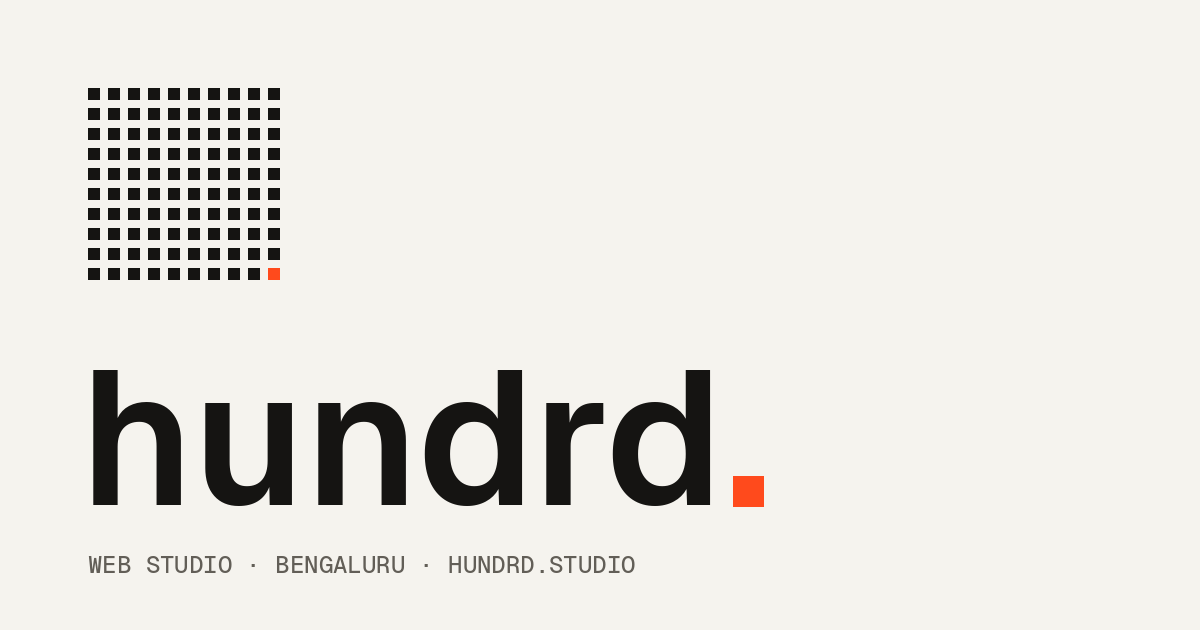
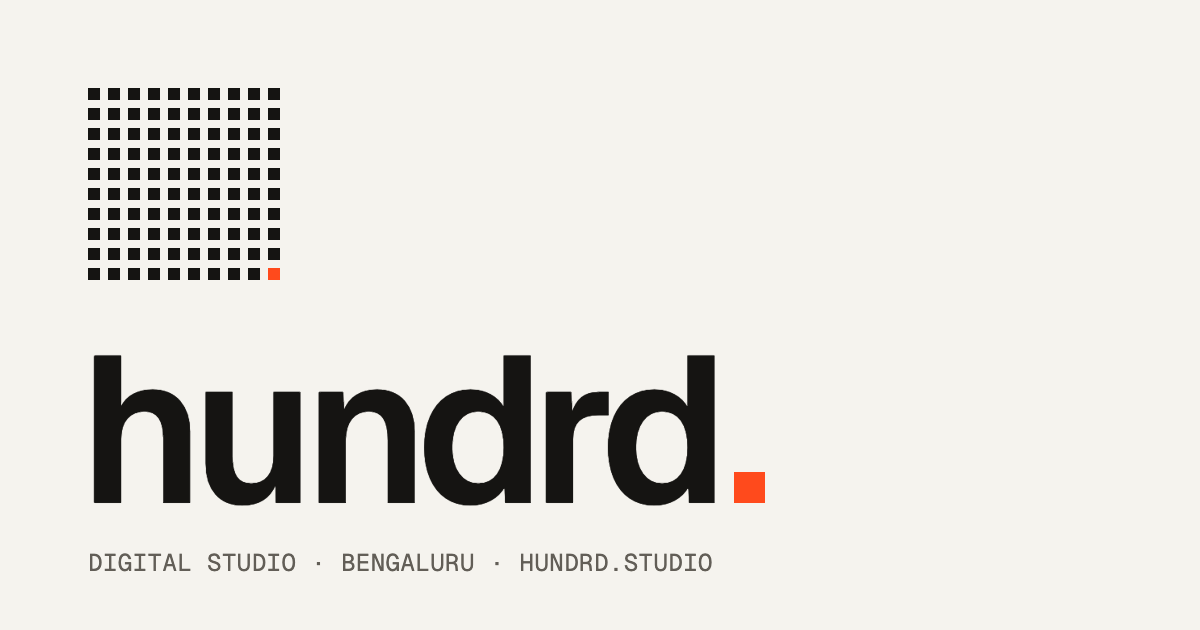
Update site branding and enhance enquiry form functionality

Changed region(s): [[0.0617, 0.5429, 0.6475, 0.8143], [0.0617, 0.8746, 0.6167, 0.9048]]

diff --git a/index.html b/index.html
@@ -3,14 +3,14 @@
 <head>
 <meta charset="utf-8">
 <meta name="viewport" content="width=device-width, initial-scale=1">
-<title>hundrd — web studio, Bengaluru</title>
-<meta name="description" content="hundrd is a web studio in Bengaluru building fast, secure websites for businesses that operate at scale. Designed, built and hosted by one studio.">
+<title>hundrd — digital studio, Bengaluru</title>
+<meta name="description" content="hundrd is a digital studio in Bengaluru building fast, secure websites and AI &amp; data tools for businesses that operate at scale.">
 <meta name="theme-color" content="#F5F3EE">
 <link rel="canonical" href="https://hundrd.studio/">
 <meta property="og:type" content="website">
 <meta property="og:url" content="https://hundrd.studio/">
-<meta property="og:title" content="hundrd — web studio, Bengaluru">
-<meta property="og:description" content="Fast, secure websites for businesses that operate at scale, down to the hundredth detail.">
+<meta property="og:title" content="hundrd — digital studio, Bengaluru">
+<meta property="og:description" content="Fast, secure websites and AI &amp; data tools, down to the hundredth detail.">
 <meta property="og:image" content="https://hundrd.studio/assets/og.png">
 <meta name="twitter:card" content="summary_large_image">
 <link rel="icon" href="favicon.svg" type="image/svg+xml">
@@ -168,6 +168,16 @@ html.scan-up::view-transition-new(root){animation:hdScanUp .9s cubic-bezier(.65,
 .hd-field:hover{border-color:#B9B4AA}
 .hd-field:focus{border-color:var(--ink)}
 .hd-field::placeholder{color:#8A857C}
+/* purpose picker: checkboxes styled as toggle chips */
+.hd-chips{display:flex;flex-wrap:wrap;gap:8px}
+.hd-pick{position:relative;display:inline-flex}
+.hd-pick input{position:absolute;inset:0;opacity:0;margin:0;cursor:pointer}
+.hd-pick span{display:inline-flex;align-items:center;gap:8px;height:36px;padding:0 12px;border:1px solid var(--line);background:var(--surface-raised);font-size:14px;color:var(--ink);transition:border-color .3s var(--ease),background-color .3s var(--ease),color .3s var(--ease)}
+.hd-pick span::before{content:"";width:8px;height:8px;border:1px solid var(--ink-muted);transition:background-color .3s var(--ease),border-color .3s var(--ease)}
+.hd-pick:hover span{border-color:#B9B4AA}
+.hd-pick input:checked+span{background:var(--ink);border-color:var(--ink);color:var(--surface)}
+.hd-pick input:checked+span::before{background:var(--signal);border-color:var(--signal)}
+.hd-pick input:focus-visible+span{outline:2px solid var(--signal);outline-offset:2px}
 [hidden]{display:none!important}
 .hd-ok{animation:hdUp .7s var(--ease) both}
 
@@ -210,9 +220,9 @@ html.scan-up::view-transition-new(root){animation:hdScanUp .9s cubic-bezier(.65,
         <nav id="wheel" class="hd-wheel" aria-label="Sections"></nav>
       </div>
       <p class="hd-in" style="margin: 4px 0 0; animation-delay: 1.4s; font-family: var(--font-mono); font-size: 11px; line-height: 16px; letter-spacing: 0.08em; text-transform: uppercase; color: var(--ink-muted);">Drag to spin · Click to explore</p>
-      <p class="hd-in" style="margin: 36px 0 0; animation-delay: 0.2s; font-family: var(--font-mono); font-size: 11px; line-height: 16px; font-weight: 500; letter-spacing: 0.08em; text-transform: uppercase; color: var(--ink-muted);">Web studio · Bengaluru · 100% or nothing</p>
+      <p class="hd-in" style="margin: 36px 0 0; animation-delay: 0.2s; font-family: var(--font-mono); font-size: 11px; line-height: 16px; font-weight: 500; letter-spacing: 0.08em; text-transform: uppercase; color: var(--ink-muted);">Digital studio · Bengaluru · 100% or nothing</p>
       <h1 id="hero-title" style="margin: 16px 0 0; overflow: hidden; padding-bottom: 0.06em; font-size: clamp(64px, 11vw, 140px); line-height: 0.92; font-weight: 500; letter-spacing: -0.055em;"><span class="hd-clip" style="animation-delay: 0.35s;">hundrd<span class="hd-blink" style="color: var(--signal);">.</span></span></h1>
-      <p class="hd-in" style="margin: 28px 0 0; animation-delay: 0.7s; max-width: 560px; font-size: 20px; line-height: 1.5; color: var(--ink-muted);">Fast, secure websites for businesses that operate at scale. Designed, built and hosted by one studio, down to the hundredth detail.</p>
+      <p class="hd-in" style="margin: 28px 0 0; animation-delay: 0.7s; max-width: 560px; font-size: 20px; line-height: 1.5; color: var(--ink-muted);">Fast, secure websites and AI &amp; data tools for businesses that operate at scale. Designed, built and hosted by one small studio, down to the hundredth detail.</p>
       <div class="hd-in" style="margin-top: 40px; animation-delay: 0.9s; display: flex; gap: 12px; flex-wrap: wrap; justify-content: center;">
         <a class="hd-btn" href="#contact" style="display: inline-flex; align-items: center; gap: 8px; height: 48px; padding: 0 24px; background: var(--signal); border: 1px solid var(--signal); color: var(--on-signal); border-radius: 2px; font-size: 16px; font-weight: 500;">Start a project <span class="hd-arr" style="font-family: var(--font-mono);">→</span></a>
         <a class="hd-btn" href="#work" style="display: inline-flex; align-items: center; gap: 8px; height: 48px; padding: 0 24px; background: transparent; border: 1px solid var(--ink); color: var(--ink); border-radius: 2px; font-size: 16px; font-weight: 500;">See the work <span class="hd-arr" style="font-family: var(--font-mono);">↓</span></a>
@@ -259,7 +269,7 @@ html.scan-up::view-transition-new(root){animation:hdScanUp .9s cubic-bezier(.65,
           <p style="margin: 0; font-family: var(--font-mono); font-size: 11px; line-height: 16px; font-weight: 500; letter-spacing: 0.08em; text-transform: uppercase; color: #A39E94;">02 / Services</p>
           <h2 id="services-title" style="margin: 12px 0 0; max-width: 760px; font-size: clamp(36px, 5vw, 56px); line-height: 1; font-weight: 500; letter-spacing: -0.035em;">One studio, from the first sketch to the server.</h2>
         </div>
-        <div style="margin-top: 64px; display: grid; grid-template-columns: repeat(auto-fit, minmax(min(100%, 260px), 1fr)); border-top: 1px solid #3A3833;">
+        <div style="margin-top: 64px; display: grid; grid-template-columns: repeat(auto-fit, minmax(min(100%, 220px), 1fr)); border-top: 1px solid #3A3833;">
           <div class="hd-svc rv" style="padding: 28px 24px 32px 16px; border-bottom: 1px solid #3A3833;">
             <p style="margin: 0; font-family: var(--font-mono); font-size: 13px; color: #FF7D57;">01</p>
             <h3 style="margin: 16px 0 0; font-size: 22px; line-height: 1.25; font-weight: 500; letter-spacing: -0.015em;">Design &amp; build</h3>
@@ -279,6 +289,12 @@ html.scan-up::view-transition-new(root){animation:hdScanUp .9s cubic-bezier(.65,
             <p style="margin: 0; font-family: var(--font-mono); font-size: 13px; color: #FF7D57;">04</p>
             <h3 style="margin: 16px 0 0; font-size: 22px; line-height: 1.25; font-weight: 500; letter-spacing: -0.015em;">Care &amp; print</h3>
             <p style="margin: 10px 0 0; font-size: 15px; line-height: 1.6; color: #A39E94;">Ongoing updates after launch, plus print pieces that match the site.</p>
+          </div>
+          <div class="hd-svc rv" style="padding: 28px 24px 32px 16px; border-bottom: 1px solid #3A3833;">
+            <p style="margin: 0; font-family: var(--font-mono); font-size: 13px; color: #FF7D57;">05</p>
+            <h3 style="margin: 16px 0 0; font-size: 22px; line-height: 1.25; font-weight: 500; letter-spacing: -0.015em;">AI &amp; data tools</h3>
+            <p style="margin: 10px 0 0; font-size: 15px; line-height: 1.6; color: #A39E94;">Web tools built on your own data: dashboards, forecasts and machine learning, tested and explained.</p>
+            <p style="margin: 14px 0 0; font-family: var(--font-mono); font-size: 11px; letter-spacing: 0.08em; text-transform: uppercase; color: #A39E94;">With <a class="hd-link" href="https://www.linkedin.com/in/deekshith-p-863a25296/" target="_blank" rel="noopener" style="color: var(--surface);">Deekshith P ↗</a></p>
           </div>
         </div>
       </div>
@@ -329,6 +345,7 @@ html.scan-up::view-transition-new(root){animation:hdScanUp .9s cubic-bezier(.65,
         <div class="rv">
           <p style="margin: 0; font-size: 24px; line-height: 1.4; letter-spacing: -0.015em;">hundrd is run by <a href="https://abhinavharisri.github.io/" target="_blank" rel="noopener" style="color: inherit; text-decoration: underline; text-decoration-thickness: 1px; text-underline-offset: 5px; text-decoration-color: var(--ink-muted);">Abhinav Harisri</a>, with one simple goal: websites that stand comfortably next to work from much bigger studios.</p>
           <p style="margin: 20px 0 0; font-size: 16px; line-height: 1.6; color: var(--ink-muted);">Every site is built like a vault: beautiful on the outside, engineered so nothing gets in. One person writes every line, ships every deploy and answers every message, with the same obsessive care on the hundredth detail as on the first.</p>
+          <p style="margin: 12px 0 0; font-size: 16px; line-height: 1.6; color: var(--ink-muted);">AI and data tools are built with <a href="https://www.linkedin.com/in/deekshith-p-863a25296/" target="_blank" rel="noopener" style="color: var(--ink); text-decoration: underline; text-decoration-thickness: 1px; text-underline-offset: 4px; text-decoration-color: var(--ink-muted);">Deekshith P</a>, a data scientist who turns business data into web tools people actually use: dashboards, forecasts and models you can trust.</p>
           <ul style="margin: 32px 0 0; padding: 20px 0 0; list-style: none; border-top: 1px solid var(--line); display: flex; flex-wrap: wrap; gap: 14px 36px;">
             <li style="display: flex; align-items: center; gap: 10px; font-family: var(--font-mono); font-size: 13px; letter-spacing: 0.08em; text-transform: uppercase;"><span aria-hidden="true" style="width: 8px; height: 8px; background: var(--signal); flex: none;"></span>No templates</li>
             <li style="display: flex; align-items: center; gap: 10px; font-family: var(--font-mono); font-size: 13px; letter-spacing: 0.08em; text-transform: uppercase;"><span aria-hidden="true" style="width: 8px; height: 8px; background: var(--signal); flex: none;"></span>No hand-offs</li>
@@ -352,6 +369,13 @@ html.scan-up::view-transition-new(root){animation:hdScanUp .9s cubic-bezier(.65,
               <span id="copy-note" role="status" style="font-family: var(--font-mono); font-size: 11px; letter-spacing: 0.08em; text-transform: uppercase; color: var(--ok);"></span>
             </div>
             <a class="hd-link" href="https://linkedin.com/in/abhinav-h-897152250" target="_blank" rel="noopener" style="display: inline-flex; gap: 10px; align-items: baseline; align-self: flex-start;"><span style="font-family: var(--font-mono); font-size: 11px; letter-spacing: 0.08em; text-transform: uppercase; color: var(--ink-muted); width: 80px;">LinkedIn</span>Abhinav H</a>
+            <div style="display: flex; gap: 10px; align-items: baseline;">
+              <span style="font-family: var(--font-mono); font-size: 11px; letter-spacing: 0.08em; text-transform: uppercase; color: var(--ink-muted); width: 80px; flex: none;">AI &amp; data</span>
+              <span style="display: flex; flex-wrap: wrap; align-items: baseline; gap: 6px 16px; min-width: 0;">
+                <a class="hd-link" href="https://www.linkedin.com/in/deekshith-p-863a25296/" target="_blank" rel="noopener">Deekshith P ↗</a>
+                <a class="hd-link" href="mailto:deekshith3346@gmail.com" target="_blank" rel="noopener" style="font-size: 15px; color: var(--ink-muted);">deekshith3346@gmail.com</a>
+              </span>
+            </div>
           </div>
         </div>
 
@@ -362,7 +386,22 @@ html.scan-up::view-transition-new(root){animation:hdScanUp .9s cubic-bezier(.65,
             <label style="display: flex; flex-direction: column; gap: 8px; font-family: var(--font-mono); font-size: 11px; letter-spacing: 0.08em; text-transform: uppercase; color: var(--ink-muted);">Company<input class="hd-field" type="text" name="company" placeholder="Business name"></label>
           </div>
           <label style="display: flex; flex-direction: column; gap: 8px; font-family: var(--font-mono); font-size: 11px; letter-spacing: 0.08em; text-transform: uppercase; color: var(--ink-muted);">Email<input class="hd-field" type="email" name="email" required="" placeholder="you@company.com"></label>
-          <label style="display: flex; flex-direction: column; gap: 8px; font-family: var(--font-mono); font-size: 11px; letter-spacing: 0.08em; text-transform: uppercase; color: var(--ink-muted);">What do you need?<textarea class="hd-field" name="message" rows="5" placeholder="A new site, a redesign, hosting…" style="resize: vertical;"></textarea></label>
+          <fieldset style="margin: 0; padding: 0; border: 0; min-width: 0;">
+            <legend style="padding: 0; margin-bottom: 8px; font-family: var(--font-mono); font-size: 11px; letter-spacing: 0.08em; text-transform: uppercase; color: var(--ink-muted);">What’s it for? <span style="text-transform: none; letter-spacing: 0;">Pick any</span></legend>
+            <div class="hd-chips">
+              <label class="hd-pick"><input type="checkbox" name="purpose" value="New website"><span>New website</span></label>
+              <label class="hd-pick"><input type="checkbox" name="purpose" value="Redesign"><span>Redesign</span></label>
+              <label class="hd-pick"><input type="checkbox" name="purpose" value="Hosting &amp; care"><span>Hosting &amp; care</span></label>
+              <label class="hd-pick"><input type="checkbox" name="purpose" value="Security check"><span>Security check</span></label>
+              <label class="hd-pick"><input type="checkbox" name="purpose" value="Data analysis"><span>Data analysis</span></label>
+              <label class="hd-pick"><input type="checkbox" name="purpose" value="Dashboard"><span>Dashboard</span></label>
+              <label class="hd-pick"><input type="checkbox" name="purpose" value="Forecasting"><span>Forecasting</span></label>
+              <label class="hd-pick"><input type="checkbox" name="purpose" value="ML model"><span>ML model</span></label>
+              <label class="hd-pick"><input type="checkbox" name="purpose" value="Fraud &amp; risk"><span>Fraud &amp; risk</span></label>
+              <label class="hd-pick"><input type="checkbox" name="purpose" value="Not sure yet"><span>Not sure yet</span></label>
+            </div>
+          </fieldset>
+          <label style="display: flex; flex-direction: column; gap: 8px; font-family: var(--font-mono); font-size: 11px; letter-spacing: 0.08em; text-transform: uppercase; color: var(--ink-muted);">Tell us more<textarea class="hd-field" name="message" rows="5" placeholder="What you have now, what you want, timeline, links…" style="resize: vertical;"></textarea></label>
           <button class="hd-btn" type="submit" style="align-self: flex-start; display: inline-flex; align-items: center; gap: 8px; height: 48px; padding: 0 24px; background: var(--signal); border: 1px solid var(--signal); color: var(--on-signal); border-radius: 2px; font: inherit; font-size: 16px; font-weight: 500; cursor: pointer;">Send enquiry <span class="hd-arr" style="font-family: var(--font-mono);">→</span></button>
         </form>
           <div id="sent" class="hd-ok" role="status" hidden style="background: var(--surface-raised); border: 1px solid var(--line); padding: 32px; display: flex; flex-direction: column; gap: 12px; justify-content: center;">

diff --git a/main.js b/main.js
@@ -127,9 +127,12 @@
       if (!FORM_ENDPOINT) {
         /* mailto alone does nothing on machines without a mail app set up (common on
            Windows and phones), so offer Gmail in the browser alongside it */
-        var subject = 'Website enquiry from ' + d.get('name') + (d.get('company') ? ', ' + d.get('company') : '');
+        var purposes = d.getAll('purpose');
+        var subject = 'Enquiry from ' + d.get('name') + (d.get('company') ? ', ' + d.get('company') : '') +
+          (purposes.length ? ' · ' + purposes.join(', ') : '');
         var body = 'Hi hundrd, I’m ' + d.get('name') + (d.get('company') ? ' from ' + d.get('company') : '') + '.\n\n' +
-          (d.get('message') || 'I’d like to talk about a website.') + '\n\nReply to: ' + d.get('email');
+          (purposes.length ? 'Looking for: ' + purposes.join(', ') + '\n\n' : '') +
+          (d.get('message') || 'I’d like to talk about a project.') + '\n\nReply to: ' + d.get('email');
         document.getElementById('sent-gmail').href = 'https://mail.google.com/mail/?view=cm&fs=1&to=' + EMAIL +
           '&su=' + encodeURIComponent(subject) + '&body=' + encodeURIComponent(body);
         document.getElementById('sent-mailto').href = 'mailto:' + EMAIL + '?subject=' + encodeURIComponent(subject) + '&body=' + encodeURIComponent(body);
